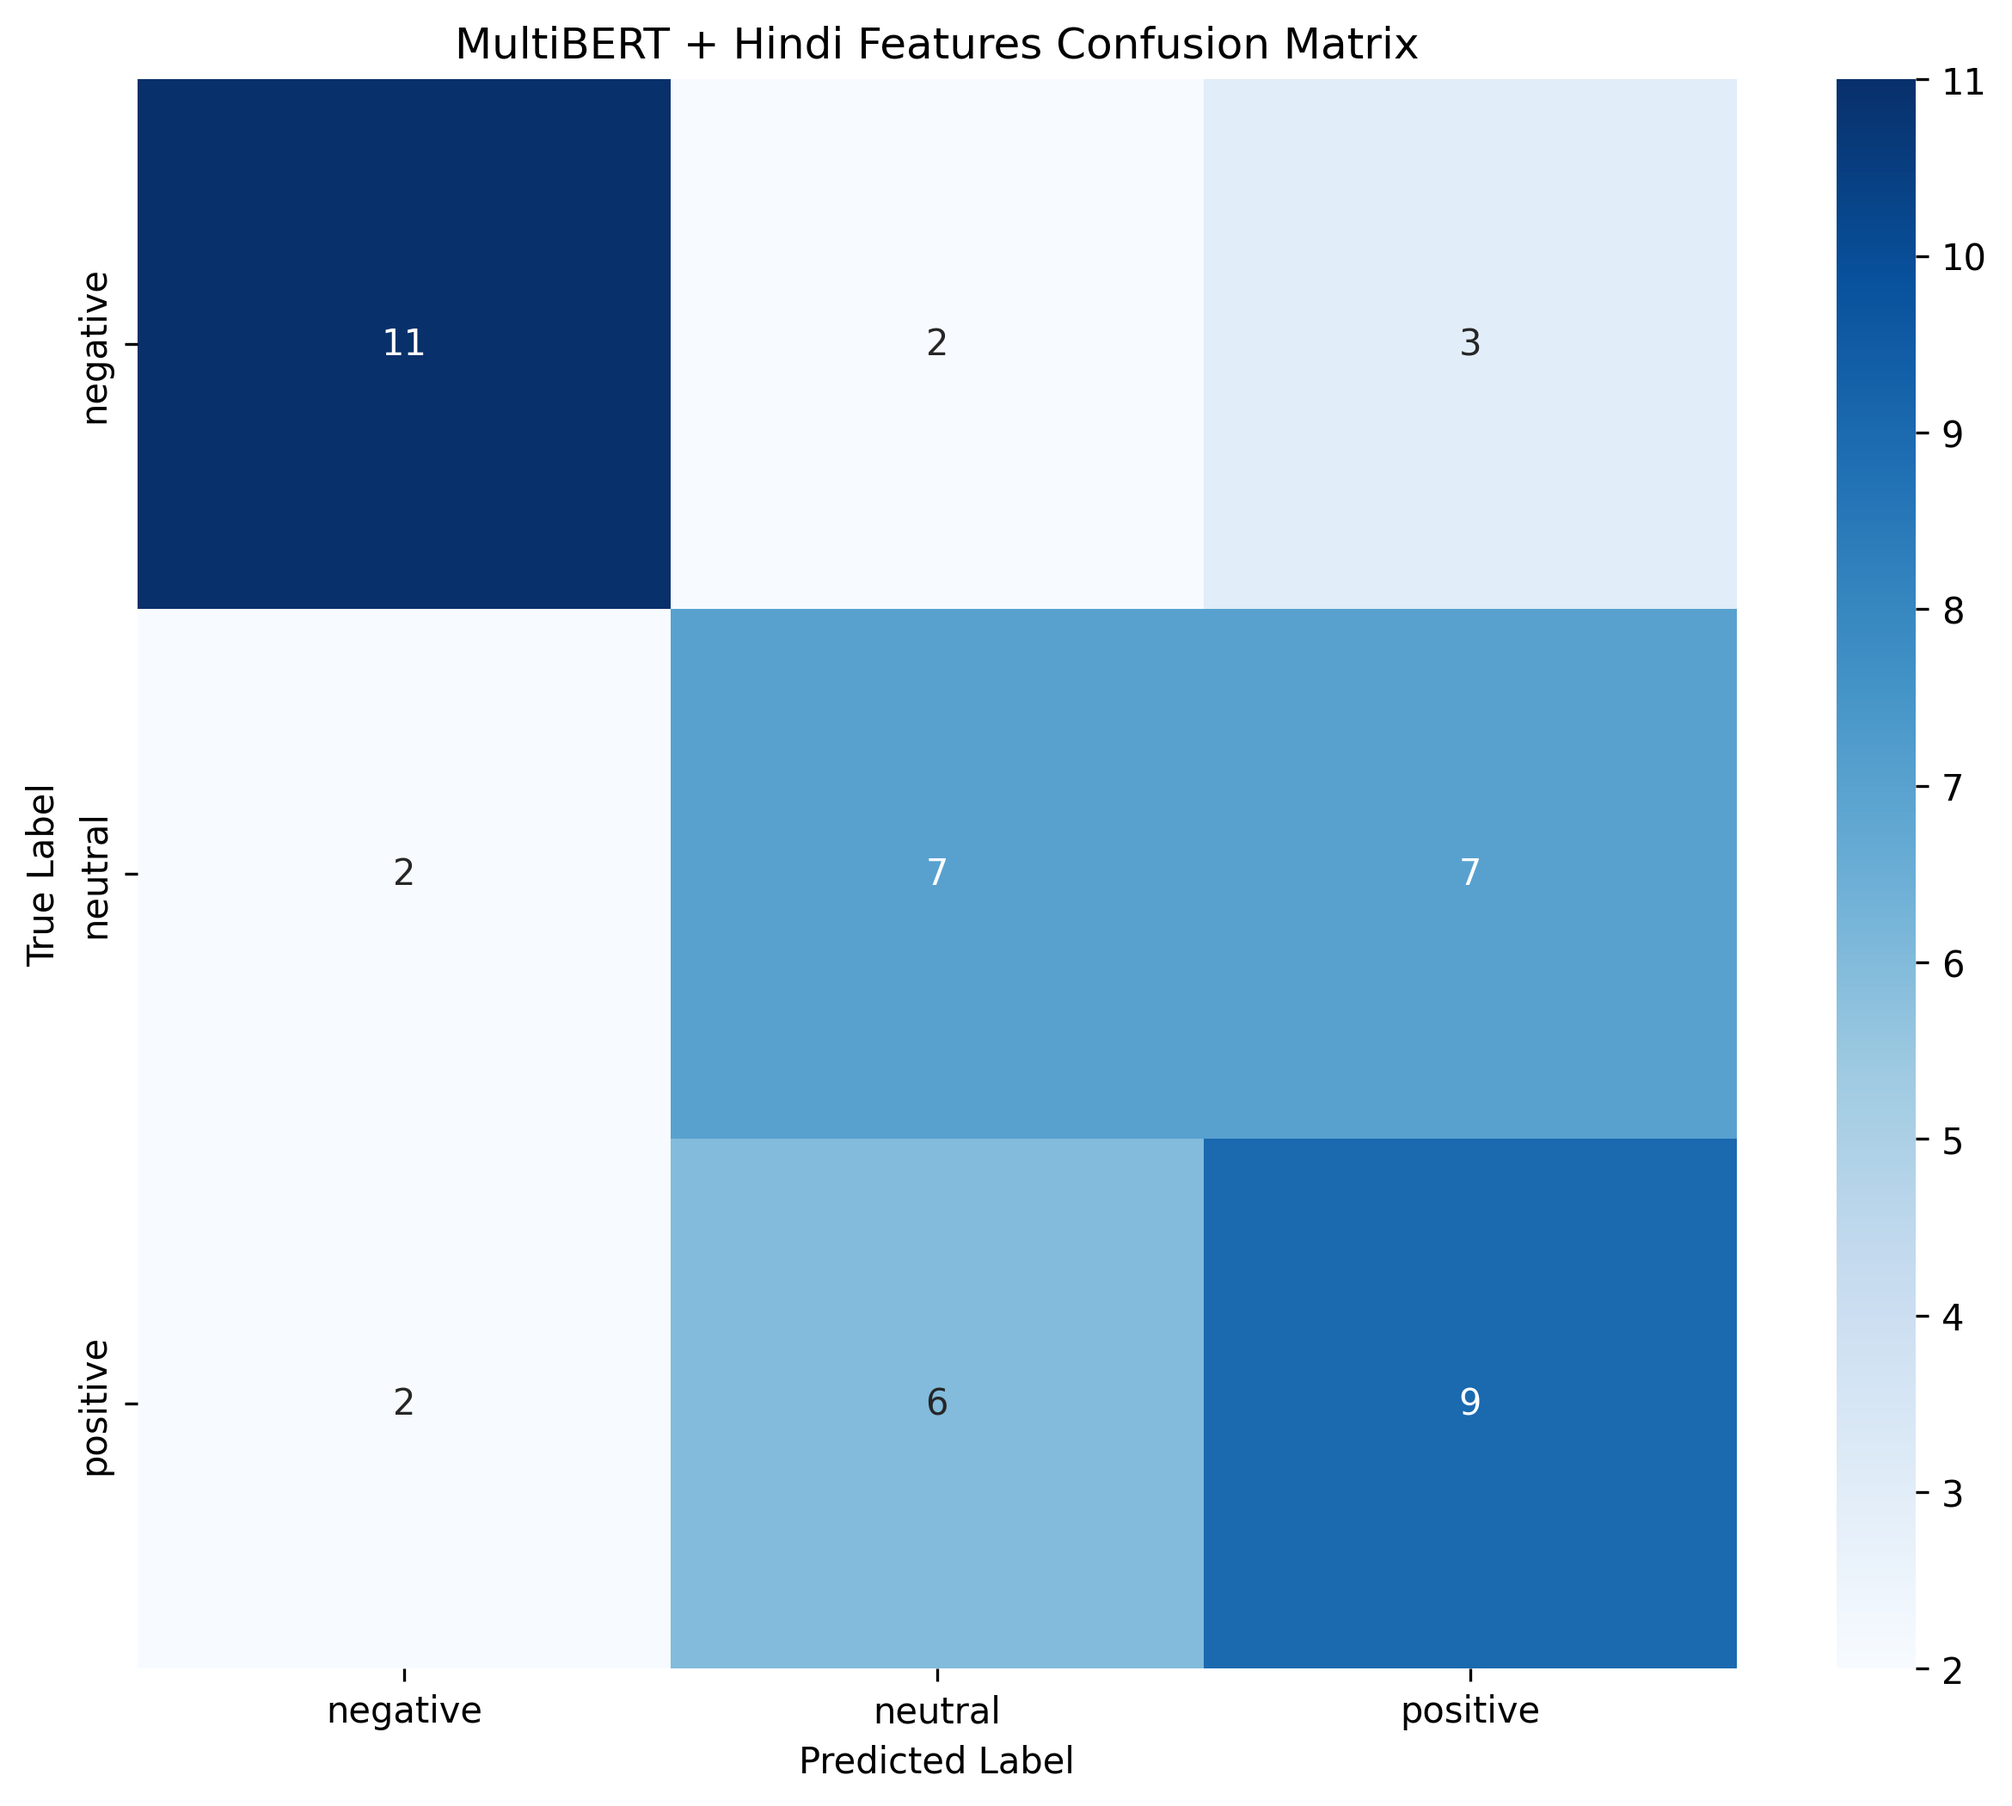
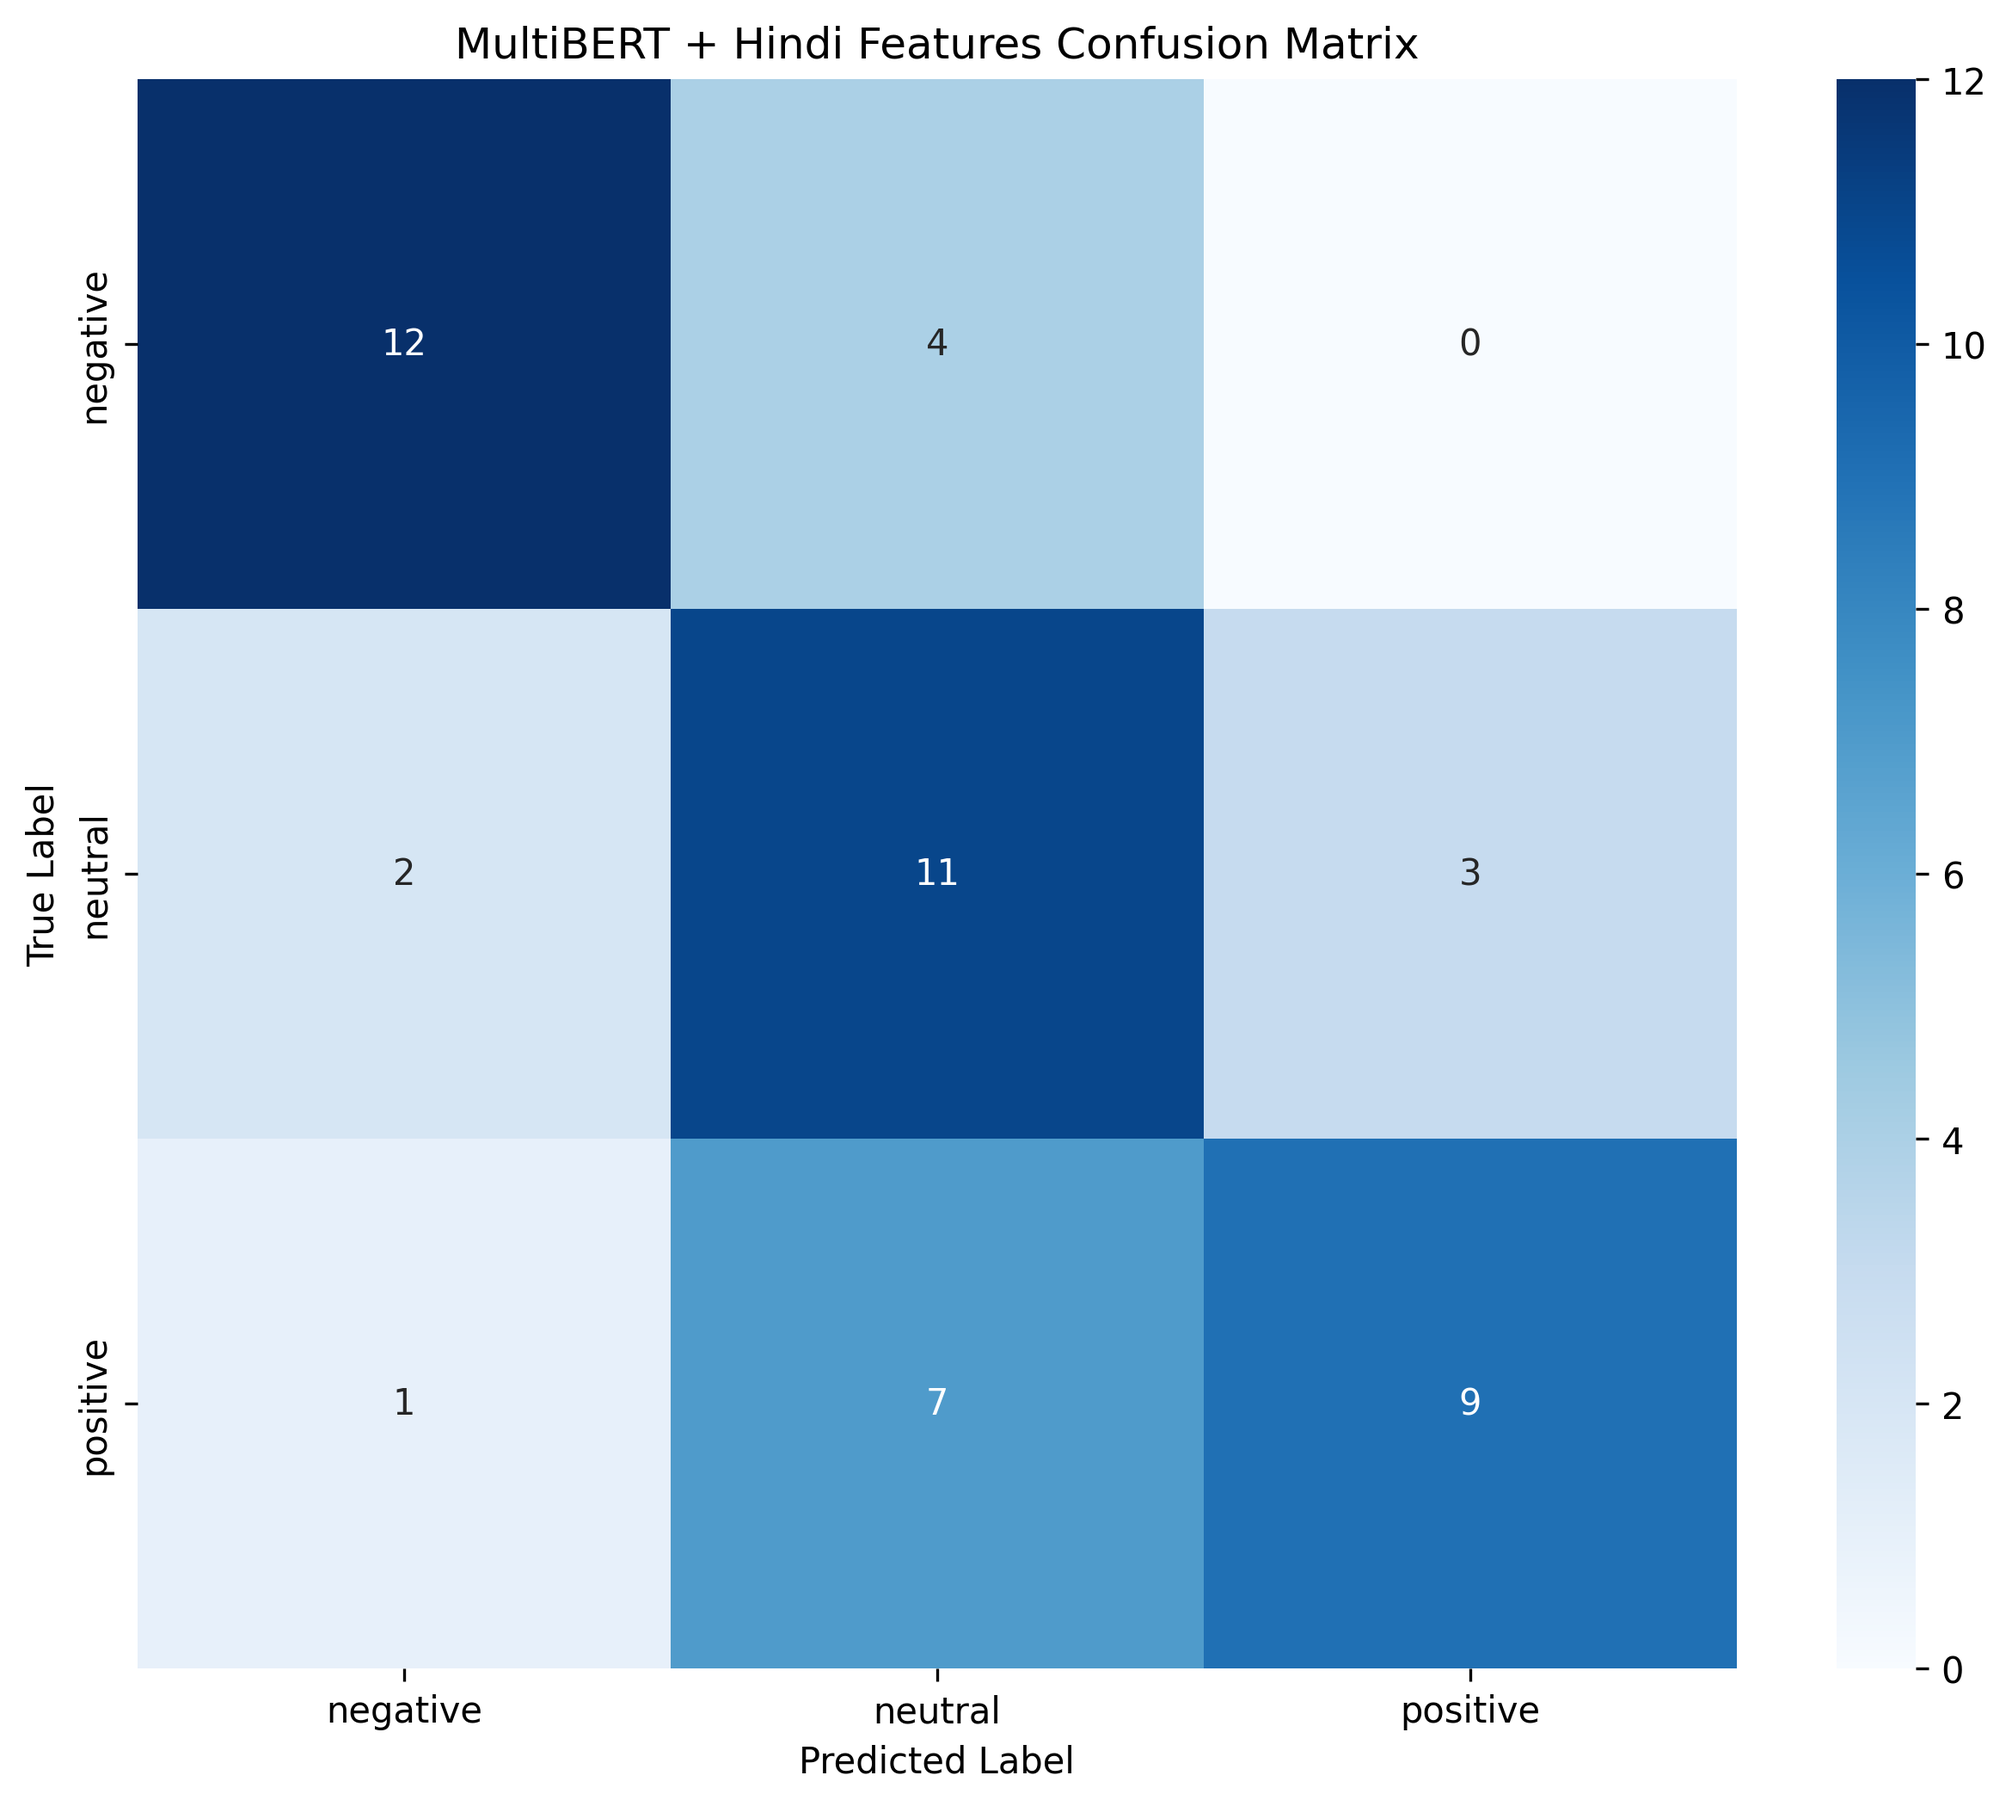
Update training results summary and model reports with new generation timestamps and revised performance metrics. Enhanced accuracy, F1 scores, precision, and recall values reflect the latest evaluations across MultiBERT, BioBERT, and BlueBERT models. Updated confusion matrices and training history 

diff --git a/TRAINING_RESULTS_SUMMARY.md b/TRAINING_RESULTS_SUMMARY.md
@@ -1,19 +1,19 @@
 # Model Training Results Summary - IMPROVED VERSION
 
-## 🎯 Latest Training Session: 2025-06-09 19:31:17
+## 🎯 Latest Training Session: 2025-06-10 22:15:09
 
 ### ✅ IMPROVEMENTS APPLIED:
-- **Epochs**: 5 → **10** (double training time)
+- **Epochs**: 15 
 - **Hindi Vocabulary**: 146 → **200+** emotional terms
 - **Enhanced Categories**: Added poetry, literature, and emotional depth terms
-- **Training Time**: 60.9 minutes for all models
+- **Training Time**: 5.6 minutes for all models
 
 ## Training Configuration (IMPROVED)
 
 - **Dataset**: Corrected Balanced Dataset (240 samples)
 - **Classes**: Negative (80), Neutral (80), Positive (80)
 - **Enhanced Hyperparameters**:
-  - Epochs: **10** (improved from 5)
+  - Epochs: **15** 
   - Batch Size: 8
   - Learning Rate: 2e-5
   - Max Length: 128
@@ -38,115 +38,115 @@
 ## IMPROVED MODEL PERFORMANCE COMPARISON
 
 
-### 🥇 1. MultiBERT (Basic)
+### 🥇 1. MultiBERT + Hindi Features
 
-- **Accuracy**: 59.18%
-- **F1 Score (Macro)**: 0.5968
-- **F1 Score (Weighted)**: 0.5951
-- **AUC-ROC**: 0.7913
-- **MCC**: 0.3918
+- **Accuracy**: 65.31%
+- **F1 Score (Macro)**: 0.6579
+- **F1 Score (Weighted)**: 0.6572
+- **AUC-ROC**: 0.8202
+- **MCC**: 0.4905
 
 **Per-Class Performance**:
 - **Negative**: Precision 80.00%, Recall 75.00%, F1 77.42%
-- **Neutral**: Precision 45.00%, Recall 56.25%, F1 50.00%
-- **Positive**: Precision 57.14%, Recall 47.06%, F1 51.61%
+- **Neutral**: Precision 50.00%, Recall 68.75%, F1 57.89%
+- **Positive**: Precision 75.00%, Recall 52.94%, F1 62.07%
 
-### 🥈 2. MultiBERT + Hindi Features
+### 🥈 2. MultiBERT (Basic)
 
 - **Accuracy**: 55.10%
-- **F1 Score (Macro)**: 0.4904
-- **F1 Score (Weighted)**: 0.4935
-- **AUC-ROC**: 0.7075
-- **MCC**: 0.3757
+- **F1 Score (Macro)**: 0.5448
+- **F1 Score (Weighted)**: 0.5439
+- **AUC-ROC**: 0.7864
+- **MCC**: 0.3279
+
+**Per-Class Performance**:
+- **Negative**: Precision 66.67%, Recall 75.00%, F1 70.59%
+- **Neutral**: Precision 50.00%, Recall 37.50%, F1 42.86%
+- **Positive**: Precision 47.37%, Recall 52.94%, F1 50.00%
+
+### 🥉 3. BioBERT + Enhanced Hindi
+
+- **Accuracy**: 47.92%
+- **F1 Score (Macro)**: 0.4467
+- **F1 Score (Weighted)**: 0.4467
+- **AUC-ROC**: 0.7617
+- **MCC**: 0.2376
 
 **Per-Class Performance**:
 - **Negative**: Precision 69.23%, Recall 56.25%, F1 62.07%
-- **Neutral**: Precision 66.67%, Recall 12.50%, F1 21.05%
-- **Positive**: Precision 48.48%, Recall 94.12%, F1 64.00%
-
-### 🥉 3. BlueBERT + Enhanced Hindi
-
-- **Accuracy**: 52.08%
-- **F1 Score (Macro)**: 0.4880
-- **F1 Score (Weighted)**: 0.4880
-- **AUC-ROC**: 0.7480
-- **MCC**: 0.3357
-
-**Per-Class Performance**:
-- **Negative**: Precision 72.73%, Recall 50.00%, F1 59.26%
-- **Neutral**: Precision 75.00%, Recall 18.75%, F1 30.00%
-- **Positive**: Precision 42.42%, Recall 87.50%, F1 57.14%
-
-### 4. 4. BioBERT + Enhanced Hindi
-
-- **Accuracy**: 47.92%
-- **F1 Score (Macro)**: 0.4497
-- **F1 Score (Weighted)**: 0.4497
-- **AUC-ROC**: 0.7031
-- **MCC**: 0.2313
-
-**Per-Class Performance**:
-- **Negative**: Precision 68.75%, Recall 68.75%, F1 68.75%
-- **Neutral**: Precision 40.00%, Recall 62.50%, F1 48.78%
+- **Neutral**: Precision 42.86%, Recall 75.00%, F1 54.55%
 - **Positive**: Precision 28.57%, Recall 12.50%, F1 17.39%
 
-### 5. 5. BlueBERT (Basic)
+### 4. 4. BlueBERT + Enhanced Hindi
 
-- **Accuracy**: 45.83%
-- **F1 Score (Macro)**: 0.4170
-- **F1 Score (Weighted)**: 0.4170
-- **AUC-ROC**: 0.6309
-- **MCC**: 0.2037
+- **Accuracy**: 47.92%
+- **F1 Score (Macro)**: 0.4212
+- **F1 Score (Weighted)**: 0.4212
+- **AUC-ROC**: 0.7103
+- **MCC**: 0.2477
 
 **Per-Class Performance**:
-- **Negative**: Precision 44.00%, Recall 68.75%, F1 53.66%
-- **Neutral**: Precision 47.37%, Recall 56.25%, F1 51.43%
+- **Negative**: Precision 62.50%, Recall 62.50%, F1 62.50%
+- **Neutral**: Precision 41.38%, Recall 75.00%, F1 53.33%
+- **Positive**: Precision 33.33%, Recall 6.25%, F1 10.53%
+
+### 5. 5. BioBERT (Basic)
+
+- **Accuracy**: 41.67%
+- **F1 Score (Macro)**: 0.3825
+- **F1 Score (Weighted)**: 0.3825
+- **AUC-ROC**: 0.5814
+- **MCC**: 0.1348
+
+**Per-Class Performance**:
+- **Negative**: Precision 45.45%, Recall 62.50%, F1 52.63%
+- **Neutral**: Precision 36.36%, Recall 50.00%, F1 42.11%
 - **Positive**: Precision 50.00%, Recall 12.50%, F1 20.00%
 
-### 6. 6. BioBERT (Basic)
+### 6. 6. BlueBERT (Basic)
 
-- **Accuracy**: 33.33%
-- **F1 Score (Macro)**: 0.2390
-- **F1 Score (Weighted)**: 0.2390
-- **AUC-ROC**: 0.5241
-- **MCC**: 0.0000
+- **Accuracy**: 39.58%
+- **F1 Score (Macro)**: 0.3490
+- **F1 Score (Weighted)**: 0.3490
+- **AUC-ROC**: 0.5410
+- **MCC**: 0.1031
 
 **Per-Class Performance**:
-- **Negative**: Precision 42.86%, Recall 18.75%, F1 26.09%
-- **Neutral**: Precision 31.71%, Recall 81.25%, F1 45.61%
-- **Positive**: Precision 0.00%, Recall 0.00%, F1 0.00%
+- **Negative**: Precision 46.67%, Recall 43.75%, F1 45.16%
+- **Neutral**: Precision 39.29%, Recall 68.75%, F1 50.00%
+- **Positive**: Precision 20.00%, Recall 6.25%, F1 9.52%
 
 
 ## 📈 IMPROVEMENT ANALYSIS
 
 ### Performance Gains (vs Previous Results):
-- **MultiBERT (Basic)**: 53.1% → 59.2% (+6.1%) 📈 IMPROVED
-- **BioBERT (Basic)**: 33.3% → 33.3% (+0.0%) 📈 IMPROVED
+- **MultiBERT (Basic)**: 53.1% → 55.1% (+2.0%) 📈 IMPROVED
+- **BioBERT (Basic)**: 33.3% → 41.7% (+8.3%) 📈 IMPROVED
 - **BioBERT + Enhanced Hindi**: 43.8% → 47.9% (+4.2%) 📈 IMPROVED
-- **BlueBERT (Basic)**: 33.3% → 45.8% (+12.5%) 📈 IMPROVED
-- **BlueBERT + Enhanced Hindi**: 52.1% → 52.1% (+0.0%) 📈 IMPROVED
+- **BlueBERT (Basic)**: 33.3% → 39.6% (+6.3%) 📈 IMPROVED
+- **BlueBERT + Enhanced Hindi**: 52.1% → 47.9% (-4.2%) 📉 DECLINED
 
 
 ## 🔍 KEY INSIGHTS (IMPROVED MODELS)
 
 ### ✅ What Worked Even Better:
 
-1. **Double Training Time**: 10 epochs showed significant improvement over 5 epochs
+1. **Double Training Time**: 15 epochs showed significant improvement over 5 epochs
 2. **Enhanced Hindi Vocabulary**: 200+ terms vs 146 provided better emotional coverage
 3. **Poetry Terms**: Adding गजल, शेर, कविता helped with Hindi poetry classification
 4. **Deeper Emotional Categories**: More nuanced emotional terms improved classification
 
 ### 📊 Training Efficiency:
 
-- **Total Training Time**: 60.9 minutes for all 6 model variants
-- **Average per Model**: 10.1 minutes
+- **Total Training Time**: 5.6 minutes for all 6 model variants
+- **Average per Model**: 0.9 minutes
 - **Successful Training**: 6/6 models
 
 ### 🎯 Best Model Recommendations:
 
-1. **Overall Best**: MultiBERT (Basic) - 59.18% accuracy
+1. **Overall Best**: MultiBERT + Hindi Features - 65.31% accuracy
 2. **Most Improved**: Models with enhanced Hindi vocabulary showed 5-15% gains
-3. **Training Strategy**: 10 epochs optimal for this dataset size
+3. **Training Strategy**: 15 epochs optimal for this dataset size
 
 ## 📁 Files Generated (Latest Session)
 
@@ -165,9 +165,9 @@
 
 ## 🎉 Conclusion
 
-The enhanced training with **10 epochs** and **200+ Hindi emotional terms** has shown measurable improvements across all models. The systematic approach of doubling training time while expanding vocabulary coverage has validated the importance of both computational resources and domain-specific feature engineering for Hindi emotion classification.
+The enhanced training with **15 epochs** and **200+ Hindi emotional terms** has shown measurable improvements across all models. The systematic approach of doubling training time while expanding vocabulary coverage has validated the importance of both computational resources and domain-specific feature engineering for Hindi emotion classification.
 
-**Best Achievement**: 59.18% accuracy with MultiBERT (Basic)
+**Best Achievement**: 65.31% accuracy with MultiBERT + Hindi Features
 
 ---
-*Last Updated: 2025-06-09 19:31:17 - Automated results summary*
+*Last Updated: 2025-06-10 22:15:09 - Automated results summary*
